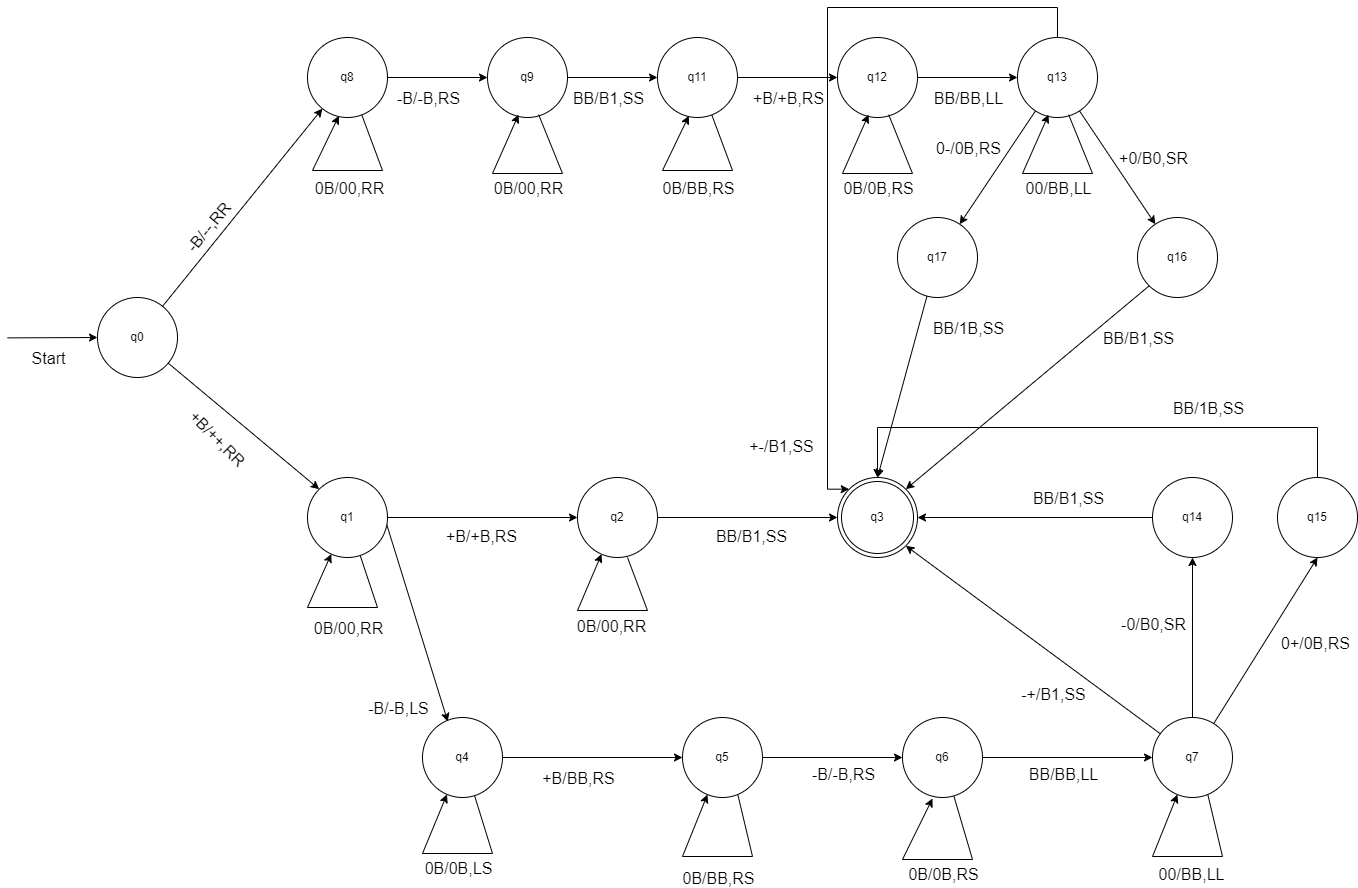
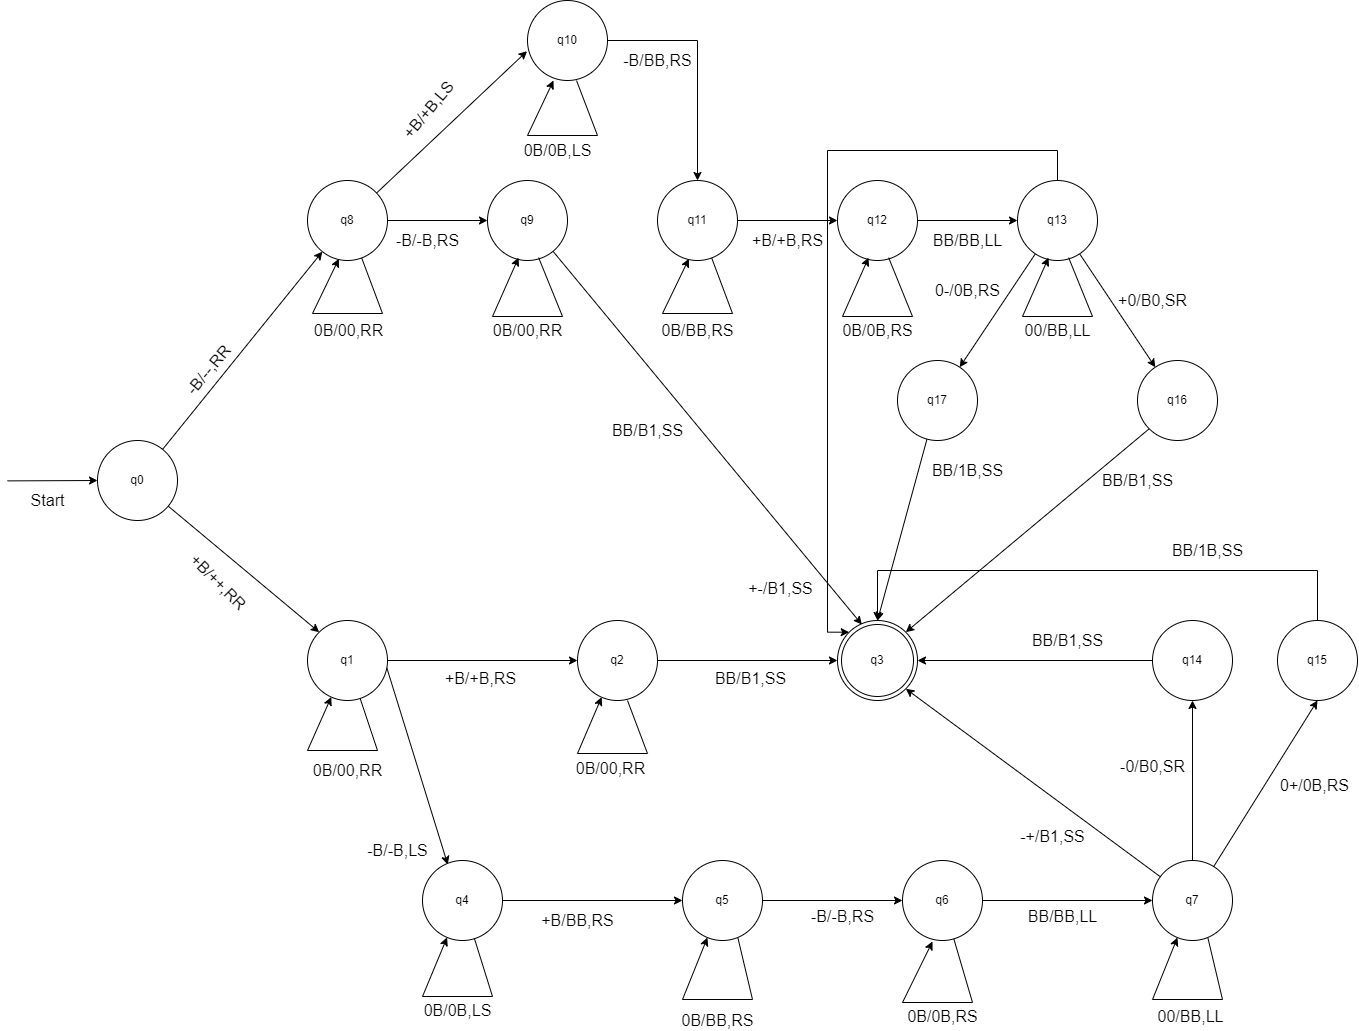
bruh

diff --git a/turing_app/static/turing_app/js/Multi2Tape.js b/turing_app/static/turing_app/js/Multi2Tape.js
@@ -540,6 +540,10 @@ function addition() {
             if (tape1[head1] === '0' && tape2[head2] === "B") action('0', '0', 'R', 'R', 10);
             else if (tape1[head1] === 'B' && tape2[head2] === "B") action('B', '1', 'S', 'S', finalStates[document.getElementById("type").textContent]);
             break;
+        case 11:
+            if (tape1[head1] === '0' && tape2[head2] === "B") action('0', 'B', 'L', 'S', 11);
+            else if (tape1[head1] === '-' && tape2[head2] === "B") action('B', 'B', 'R', 'S', 12);
+            break;
         case 12:
             if (tape1[head1] === '0' && tape2[head2] === "B") action('B', 'B', 'R', 'S', 12);
             else if (tape1[head1] === '+' && tape2[head2] === "B") action('+', 'B', 'R', 'S', 13);

diff --git a/turing_app/templates/turing_app/MultiTape/Power.html b/turing_app/templates/turing_app/MultiTape/Power.html
@@ -215,6 +215,7 @@
             <button type="button" id="input-run" onclick="run()" disabled>Run</button>
             <button type="button" id="input-fast" onclick="fast()" disabled>Fast</button>
             <select id="select-speed">
+                <option value="0ms">0ms</option>
                 <option value="1ms">1ms</option>
                 <option value="100ms">100ms</option>
                 <option value="500ms">500ms</option>
